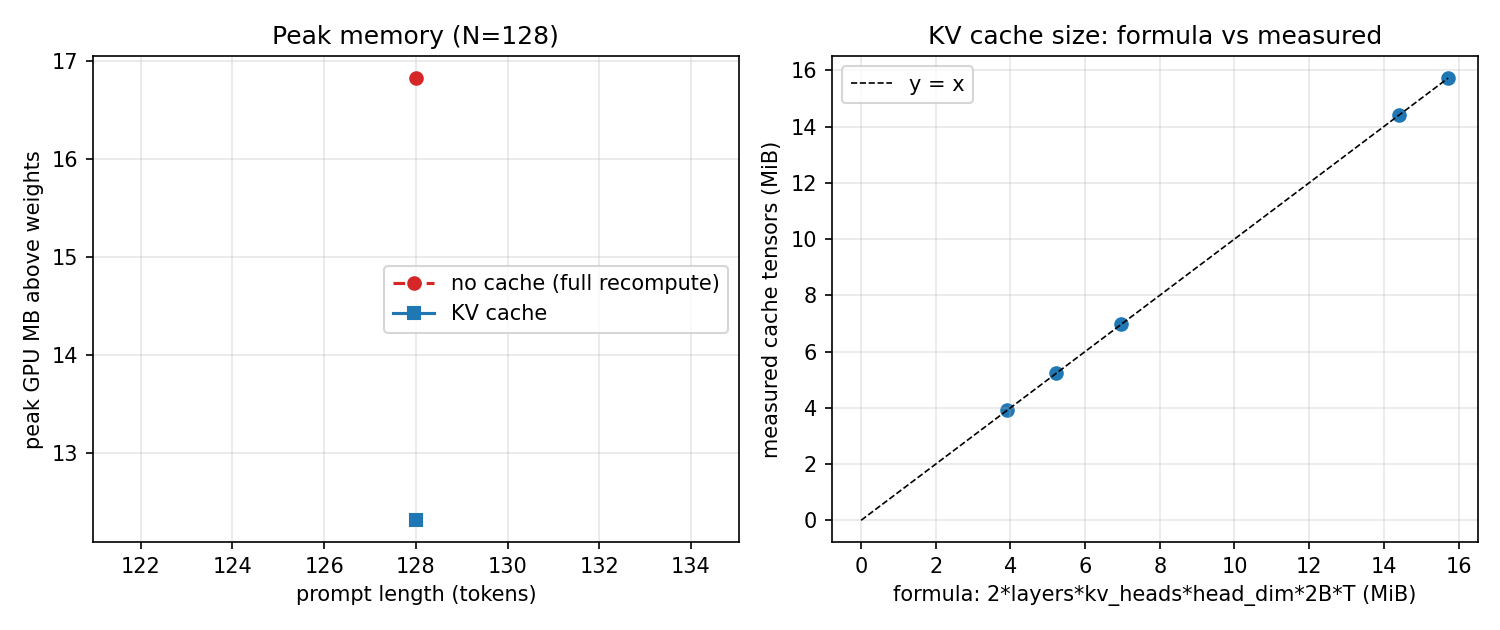
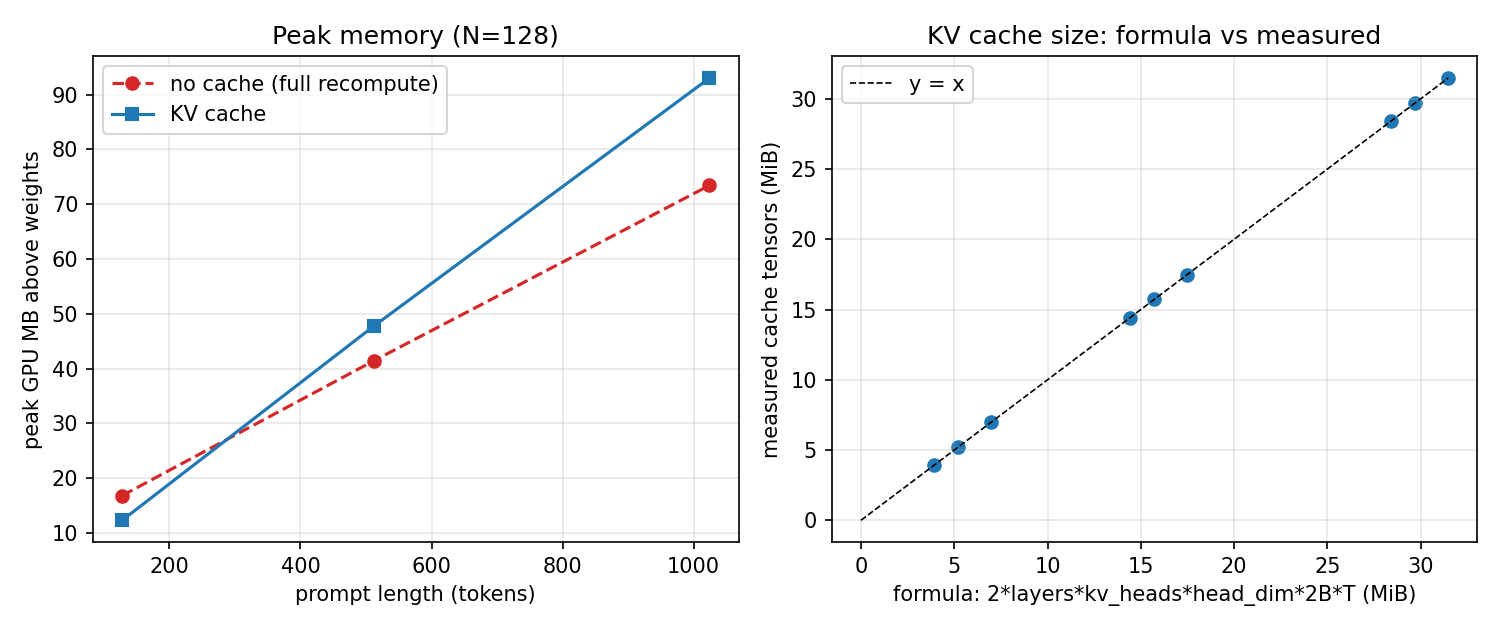
P5: explicit KV-cache decoder, no-cache reference, equivalence + benchmark scripts, tests

diff --git a/scripts/check_kv_equiv.py b/scripts/check_kv_equiv.py
@@ -43,13 +43,25 @@ def read_jsonl(p: Path) -> list[dict]:
 
 
 def hf_reference(model, tok, ids: torch.Tensor, n_new: int, eos_ids) -> list[int]:
-    """HF generate(), greedy, repetition_penalty=1.0 -- REFERENCE ONLY (never the deliverable)."""
-    from transformers import GenerationConfig
-    pad = tok.pad_token_id if tok.pad_token_id is not None else 0
-    gc = GenerationConfig(do_sample=False, max_new_tokens=n_new, min_new_tokens=0 if eos_ids else n_new,
-                          repetition_penalty=1.0, eos_token_id=eos_ids, pad_token_id=pad)
-    with torch.no_grad():
-        out = model.generate(input_ids=ids, attention_mask=torch.ones_like(ids), generation_config=gc)
+    """HF generate(), greedy -- REFERENCE ONLY (never the deliverable).
+
+    Qwen's shipped generation_config has repetition_penalty=1.05 (+ sampling flags). generate() treats a user value equal to the
+    library default (1.0) as "unset" and falls back to the MODEL's config, so passing repetition_penalty=1.0 is silently ignored.
+    We therefore neutralise the model's own generation_config for the duration of the call and restore it afterwards.
+    """
+    gc = model.generation_config
+    keep = {k: getattr(gc, k, None) for k in ("repetition_penalty", "eos_token_id", "pad_token_id", "do_sample", "temperature", "top_p", "top_k")}
+    try:
+        gc.repetition_penalty, gc.do_sample = 1.0, False
+        gc.temperature = gc.top_p = gc.top_k = None
+        gc.eos_token_id = list(eos_ids) if eos_ids else None
+        gc.pad_token_id = tok.pad_token_id if tok.pad_token_id is not None else 0
+        with torch.no_grad():
+            out = model.generate(input_ids=ids, attention_mask=torch.ones_like(ids), do_sample=False, max_new_tokens=n_new,
+                                 min_new_tokens=0 if eos_ids else n_new)
+    finally:
+        for k, v in keep.items():
+            setattr(gc, k, v)
     new = out[0, ids.shape[1]:].tolist()
     if eos_ids:
         for i, t in enumerate(new):

diff --git a/tests/test_kv_equiv.py b/tests/test_kv_equiv.py
@@ -113,7 +113,7 @@ def test_wrong_position_ids_break_the_output(model):
     out = model(input_ids=nxt, attention_mask=torch.ones(1, 31, dtype=torch.long),
                 position_ids=torch.zeros(1, 1, dtype=torch.long),            # WRONG on purpose: true position is 30
                 past_key_values=cache, use_cache=True, logits_to_keep=1)
-    assert (out.logits[0, -1] - good).abs().max() > 1e-3
+    assert (out.logits[0, -1] - good).abs().max() > 1e-4          # fp32 noise here is ~1e-6; a wrong RoPE position moves logits ~1e-3 on this tiny random model
 
 
 def test_prefix_cache_reuse_matches_fresh(model):
